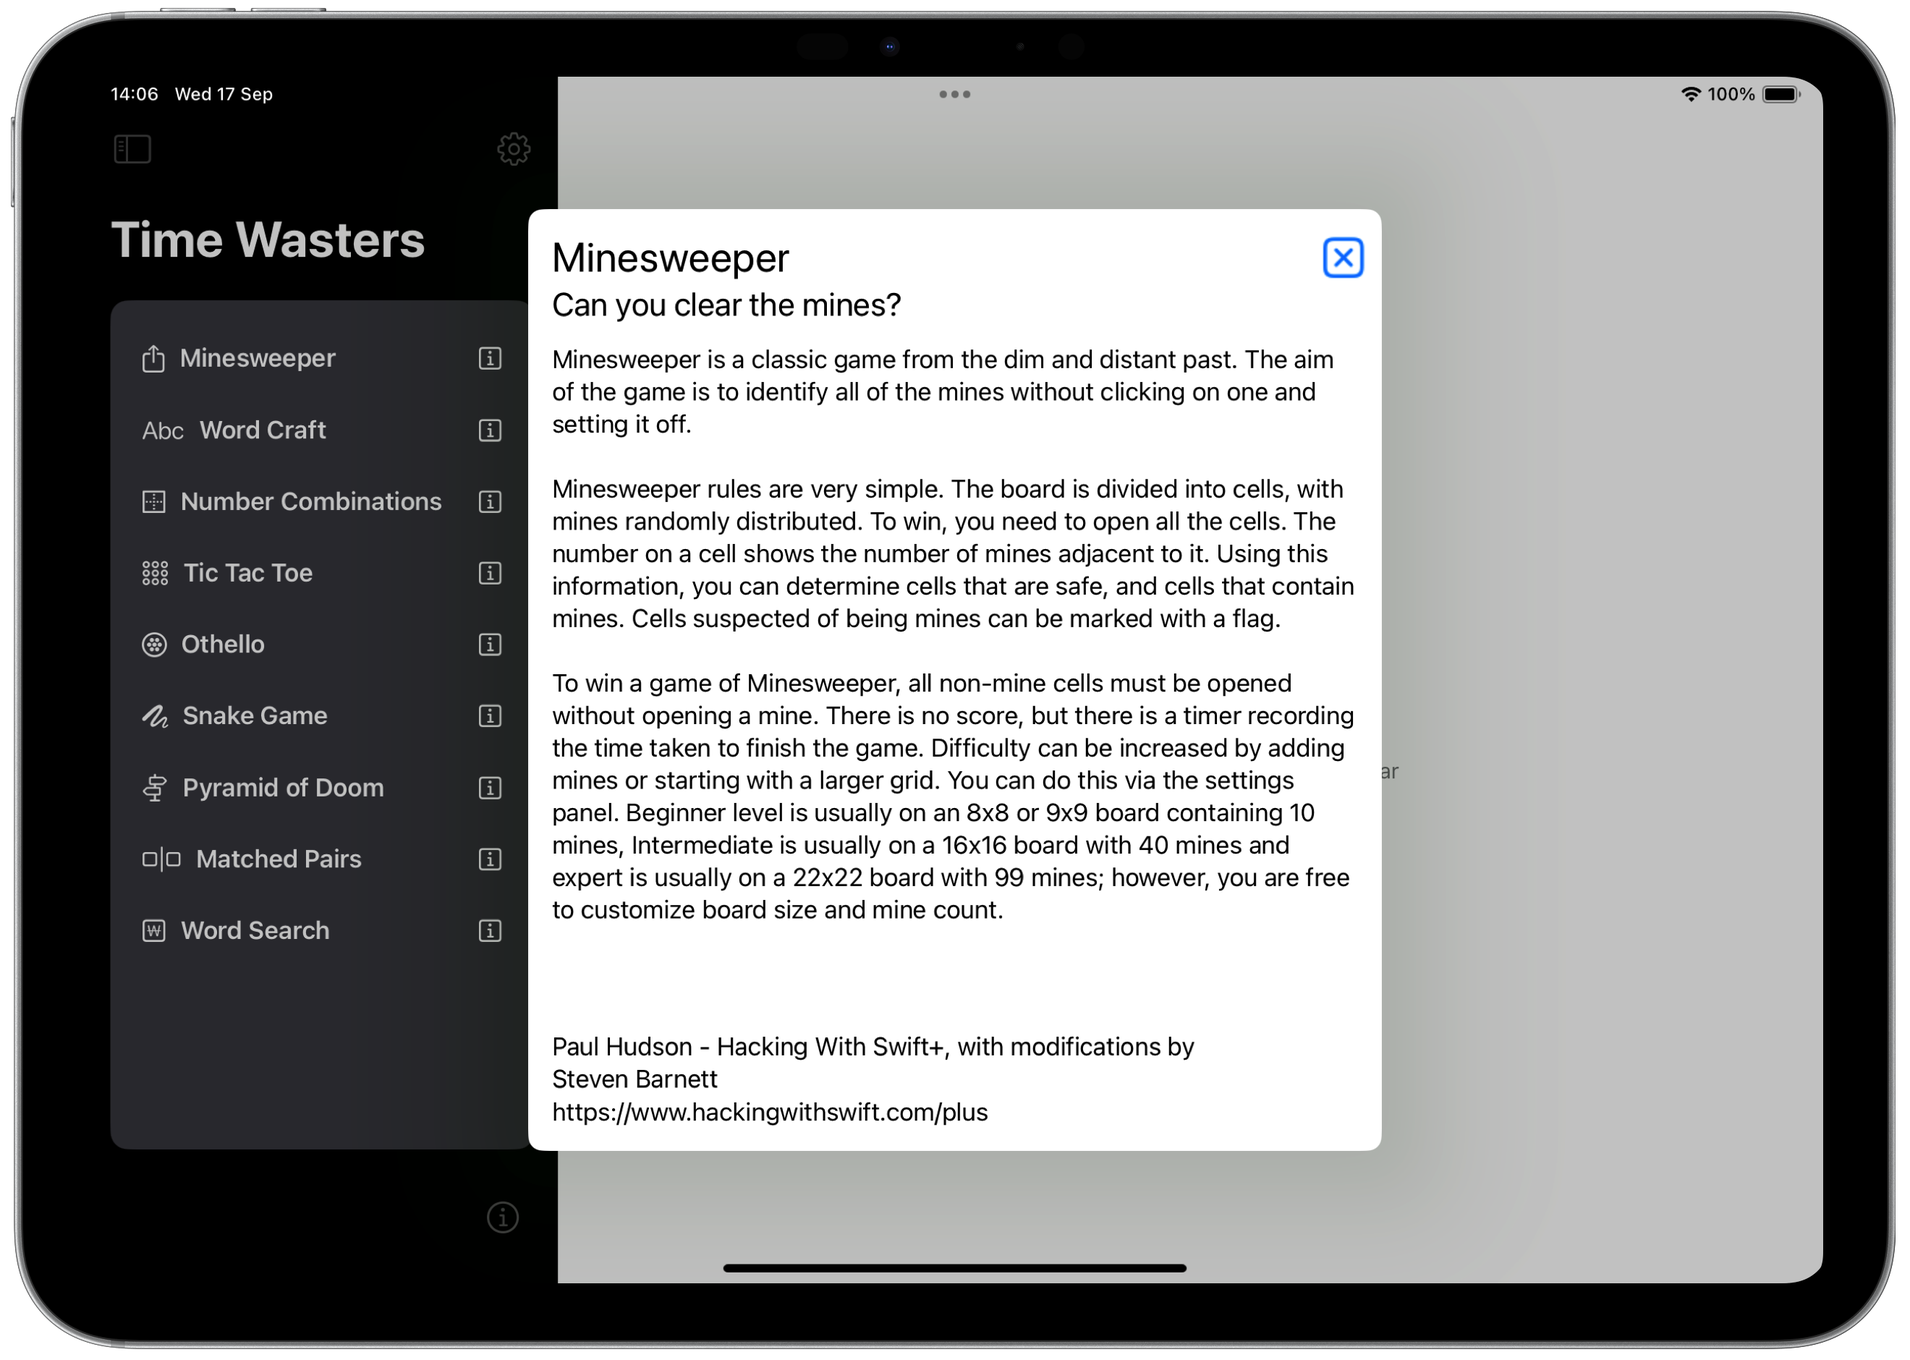
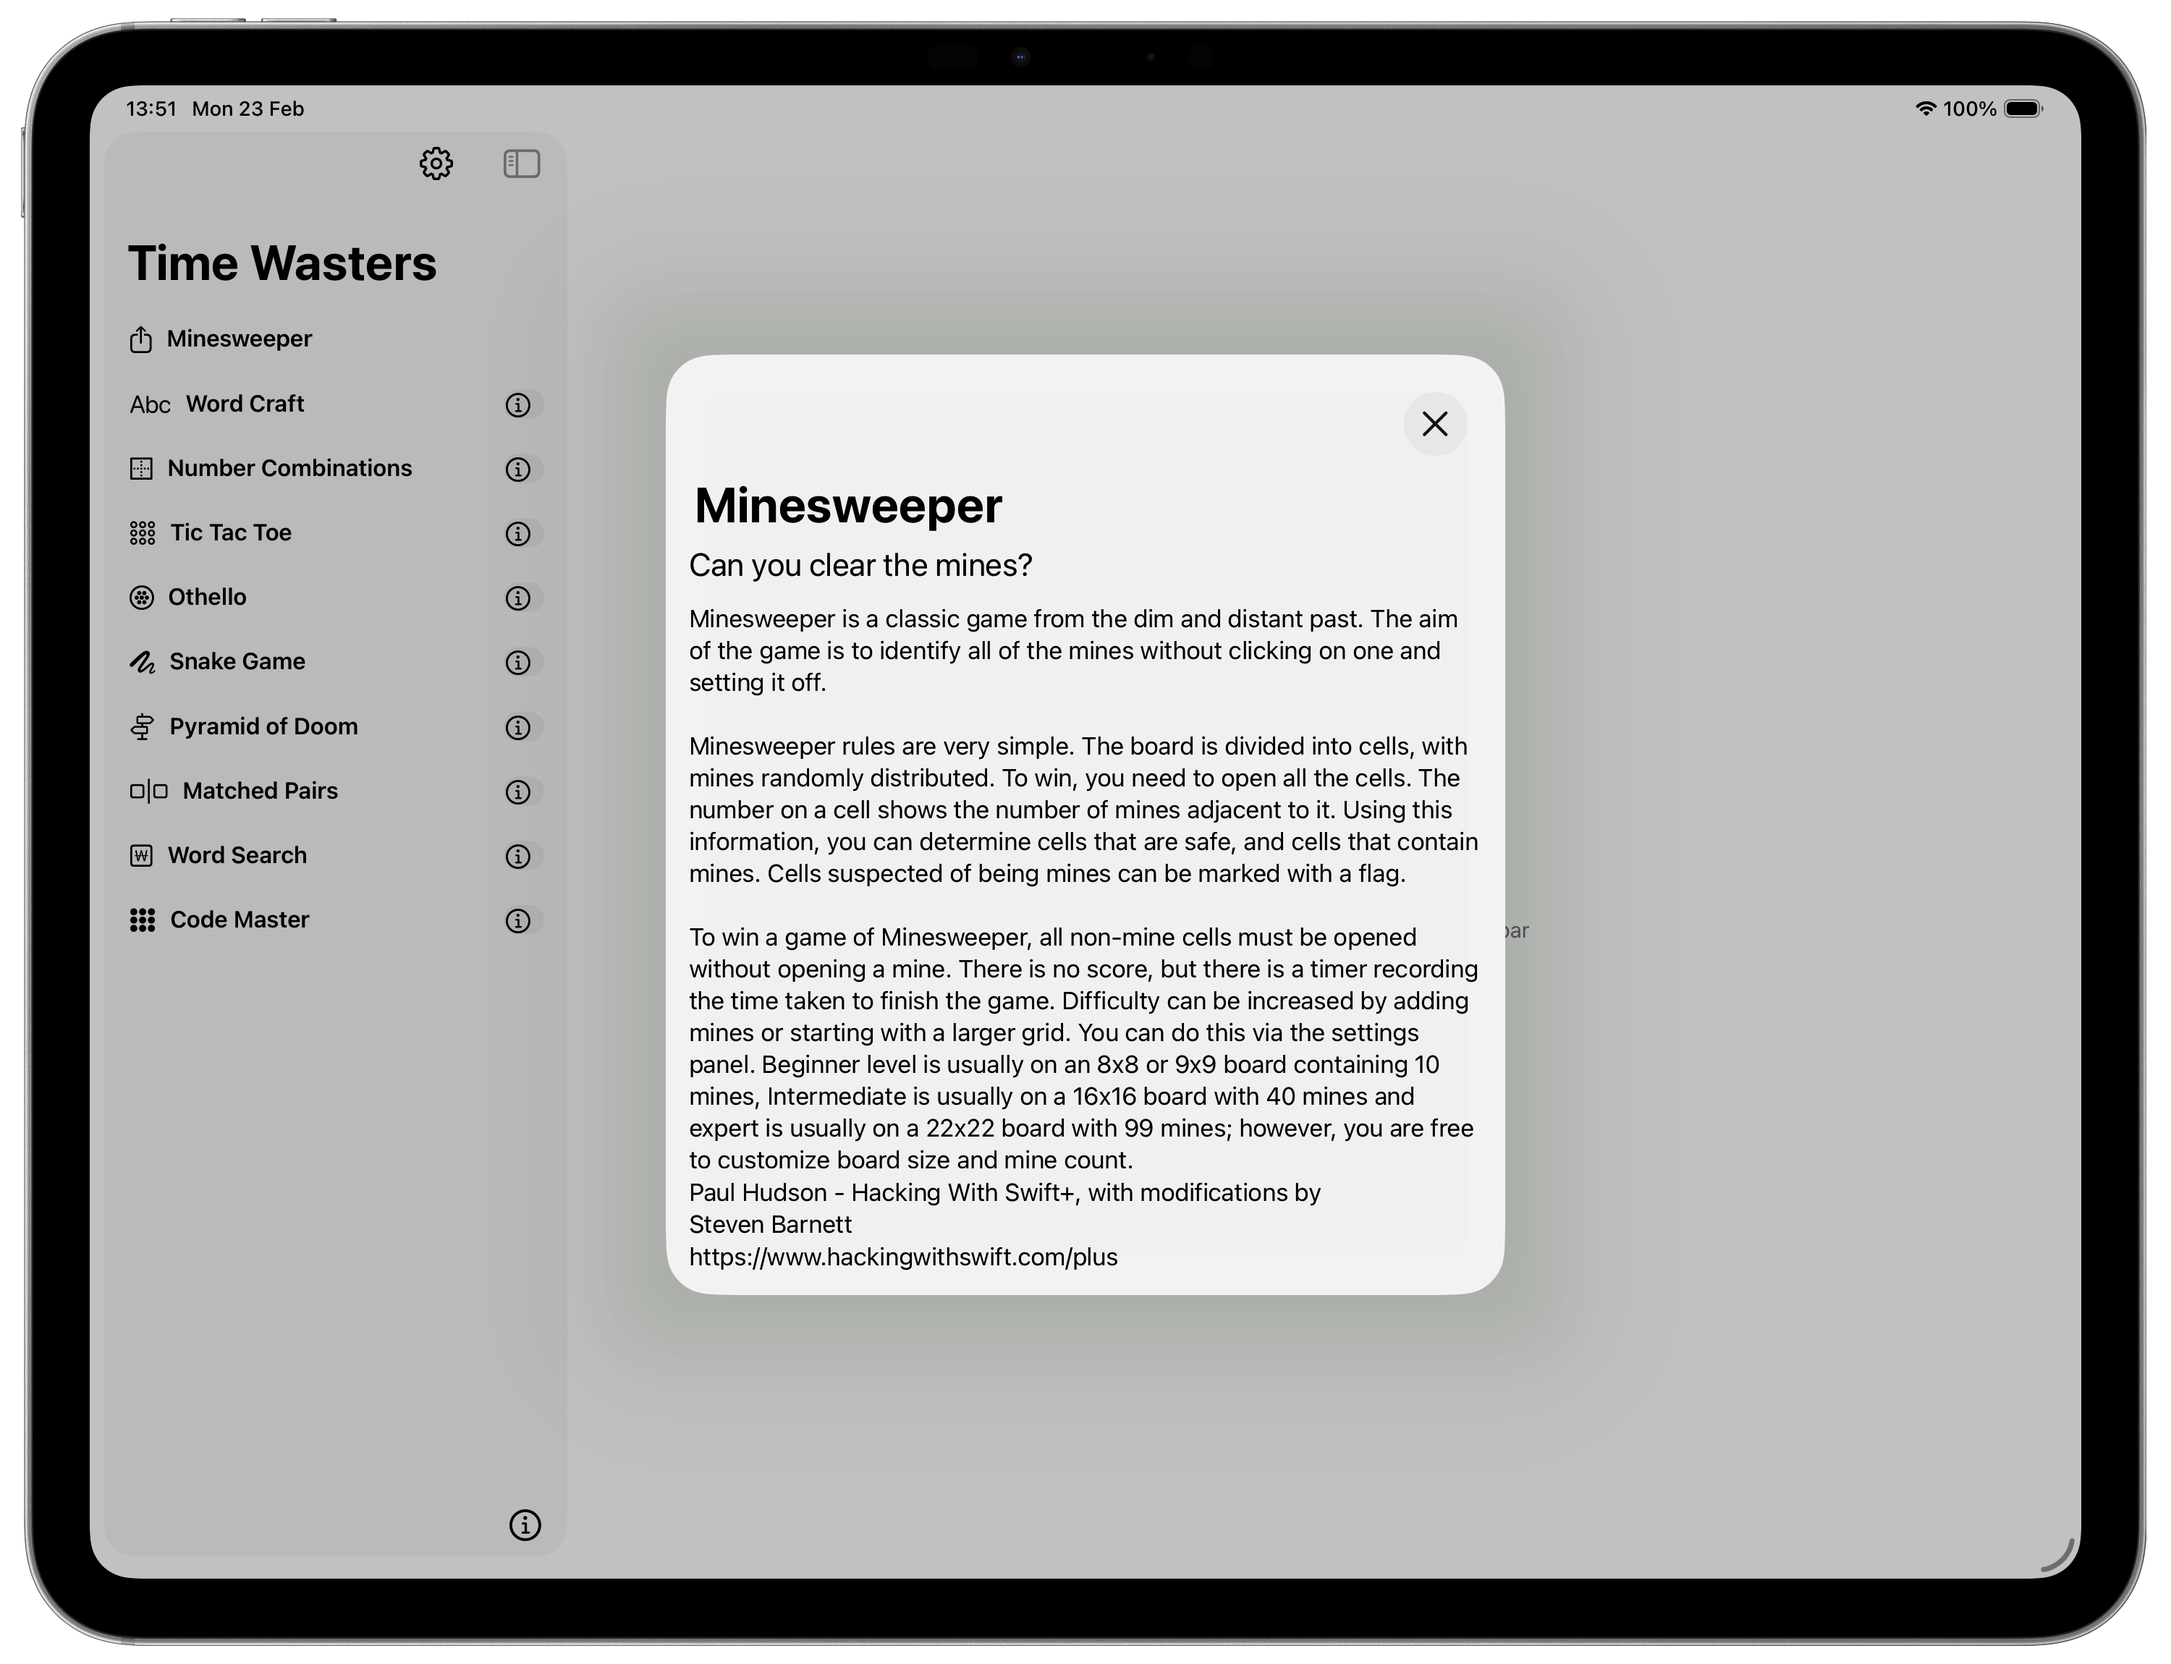
Updated readme for Code Masters

diff --git a/README.md b/README.md
@@ -20,12 +20,13 @@ At present, this Mac app contains nine games;
 * Othello
 * Matched Pairs
 * Word Search
+* Code Master
 
 These are a mixture of games I have adapted and games I have written myself. 
 
 * Minesweeper and WordCraft were created by [Paul Hudson in his Hacking with Swift+ live streams]( https://www.hackingwithswift.com/plus ). I have 'messed' with them to extend the games. 
 
-* Snake, Number Combinations, Tic Tac Toe, Othello, Matched Pairs and Word Search are mine. I've picked up the basic logic from web articles but have written the code myself.
+* Snake, Number Combinations, Tic Tac Toe, Othello, Matched Pairs, Word Search and Code Master are mine. I've picked up the basic logic from web articles but have written the code myself.
 
 * Pyramid of Doom is a Stott Adams game from way back when the TRS-80 was still cool - this is my port of that game, taken from the original C code and ported to Swift. I then added a SwiftUI front end as the original game was a console line game.
 
@@ -150,6 +151,29 @@ The game supports three levels of play:
 * Hard - where words are arranged in all vertical, horizontal or diagonal directions.
 
 Recognising that this can be a difficult game to complete, there is also a hint mode where the player can type a single letter on the keyboard and all occurrences of that letter will be highlighted. So as to not make the game too easy, they are only highlighted for 2 seconds and it incurs a 10 second penalty on your score. 
+
+## Code Master
+
+Back in the day, there was a craze for a game called Master Mind. The premise was quite simple; player one created a code using coloured pegs and player two had to guess the code. When a guess was made, the player would be told how many pegs they had correct and in the correct place and how many pegs they had correct but in the wrong place. By a process of elimination and logical deduction, the player could deduce the code. Code Master is a variant of that game.
+
+![CodeMaster](./Images/twiCodeMaster.png)
+
+In the original game, you had ten moves to correctly guess the code before you lost the game. My variant lets you try as many times as you like and records the number of attempts for the leader board. 
+
+In another change from the original game, I have set up the game to support four levels of play. As a player, you can set the game level you want to play at or have the game randomly select a level:
+
+* Easy - where the code is limited to three items,
+* Medium - where the game works like the original with four items,
+* Hard - where we step up and have five item codes,
+* Very Hard - where we get fiendishly difficult with six items.
+
+I also modified the game to move from just coloured pegs. Games now have a theme which could be coloured pegs or could be themed emojis. The player can elect to use a specific theme or have the system randomly generate a theme for the game.
+
+Recognising that the game can be difficult at the hard and very hard levels, I relented and added a facility where you can see the code. This ends the game, but also takes away some of the frustration when you're struggling.
+
+![CodeMaster](./Images/twiCodeReveal.png)
+
+While not a 100% faithful recreation of the original game, this implementation can be used to play the original or to play one of the variants for more or less difficulty.
 
 ## Overviews
 
